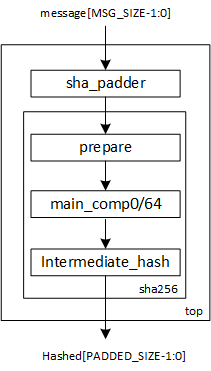
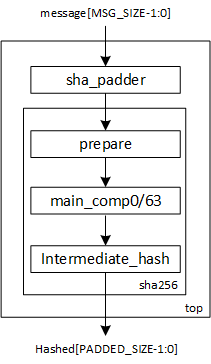
fix Figure 4 to be better for inputs

Changed region(s): [[0.0, 0.0907, 1.0, 0.9973], [0.1991, 0.0, 0.7962, 0.0604]]

diff --git a/Lab2/lab2/lab2.tex b/Lab2/lab2/lab2.tex
@@ -565,7 +565,7 @@ addition (+) is performed modulo $2^{32}$ as described in Section~\ref{modular.s
   - again, it is performed $64$ times.
   \begin{figure} [t!]
   \centering
-  \includegraphics[scale=0.8]{sha256compression.png}
+  \includegraphics[scale=0.8]{sha256compression2.png}
   \caption{SHA256 Compression Function Block}
   \label{sha256compression.fig}
   \end{figure}
